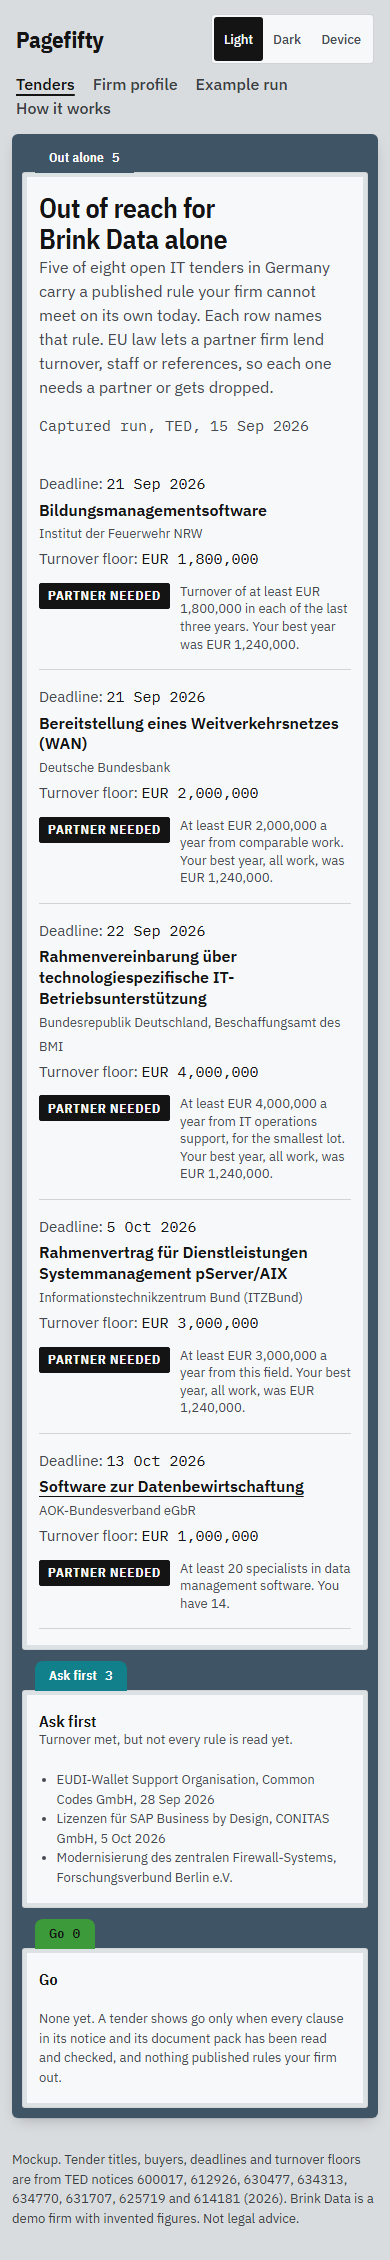
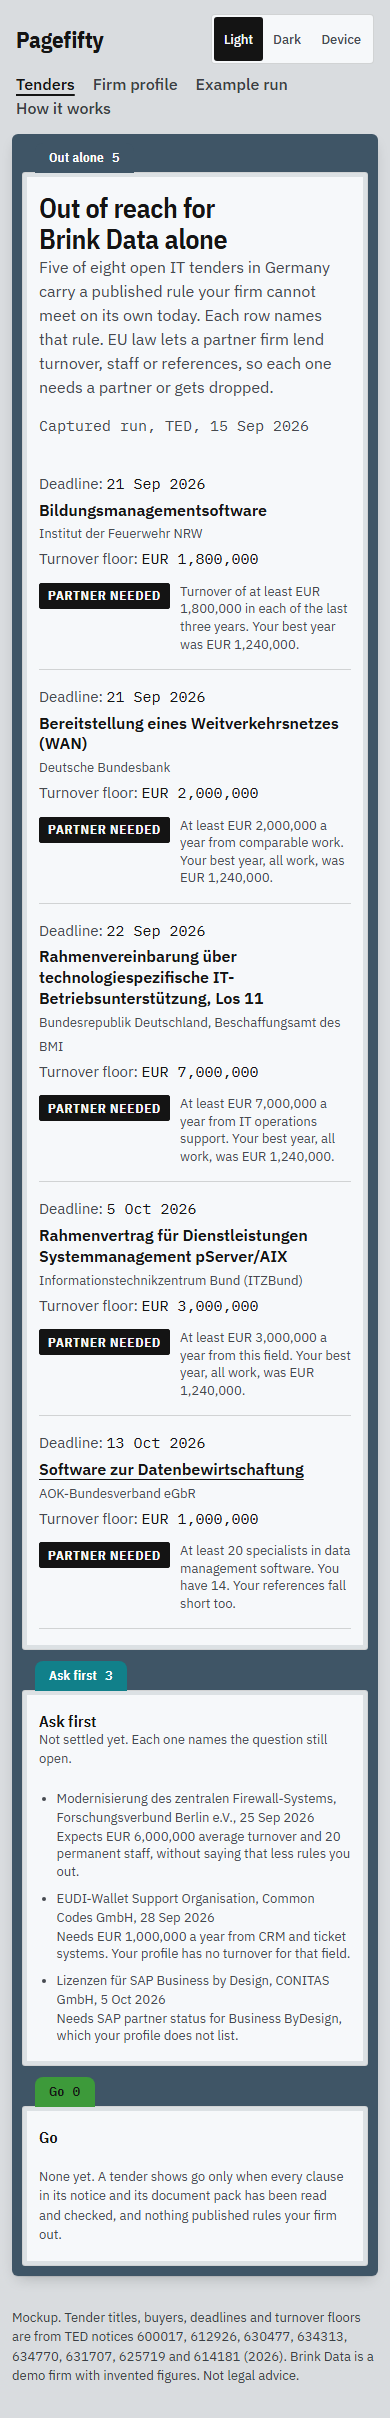
fix(design): match mockup figures and dates to the captured notices
Walking each page against the 2026-09-15 capture found figures the
notices do not support.

- Tenders: 600017 is Los 11 of the framework, whose floor is EUR
  7,000,000; EUR 4,000,000 belongs to Los 12 in another notice. The
  ask-first list claimed turnover met, yet 614181 expects EUR 6,000,000
  and the other two demand field turnover the profile does not hold.
  Each item now names its open question, 614181 shows its 25 Sep request
  deadline and sorts first, and the AOK row names both shortfalls the
  verdict page counts.
- Home: 28 of 58 took each notice's lowest floor, so floors a lot
  demands together were dropped, a three-year total read as yearly, two
  floors written "750.000. Euro" were missed and 13 of 363 notices had
  already closed. The recount gives 31 of 57 open notices; PRODUCT.md
  and ART-DIRECTION.md state the rule.
- Profile: the average no longer shows a figure while 2025 is invalid.
- States: days left counted as of the 15 Sep capture date, like the
  verdict page. Verdict: the Notice tab counts the three clauses on it.
- theme.js follows a pick made in another tab, or before Back restored
  the page, while a page's own click and ?theme= still hold.
- The open questions under a listed tender no longer shrink below the
  list text. Mockups recaptured.

ritual step p3

Changed region(s): [[0.0308, 0.0, 0.9538, 0.9912]]

diff --git a/design/tenders.html b/design/tenders.html
@@ -111,17 +111,18 @@
 							<td class="mono" data-label="Deadline">22 Sep 2026</td>
 							<td>
 								<span class="t" lang="de"
-									>Rahmenvereinbarung über technologiespezifische IT-Betriebsunterstützung</span
+									>Rahmenvereinbarung über technologiespezifische IT-Betriebsunterstützung, Los
+									11</span
 								>
 								<span class="b" lang="de">Bundesrepublik Deutschland, Beschaffungsamt des BMI</span>
 							</td>
-							<td class="num mono" data-label="Turnover floor">EUR 4,000,000</td>
+							<td class="num mono" data-label="Turnover floor">EUR 7,000,000</td>
 							<td>
 								<div class="vcell">
 									<span class="vtag out">Partner needed</span
 									><small
-										>At least EUR 4,000,000 a year from IT operations support, for the smallest lot.
-										Your best year, all work, was EUR 1,240,000.</small
+										>At least EUR 7,000,000 a year from IT operations support. Your best year, all
+										work, was EUR 1,240,000.</small
 									>
 								</div>
 							</td>
@@ -157,7 +158,10 @@
 							<td>
 								<div class="vcell">
 									<span class="vtag out">Partner needed</span
-									><small>At least 20 specialists in data management software. You have 14.</small>
+									><small
+										>At least 20 specialists in data management software. You have 14. Your
+										references fall short too.</small
+									>
 								</div>
 							</td>
 						</tr>
@@ -170,13 +174,30 @@
 				<div class="grid">
 					<div class="margin-col">
 						<h2 class="margin-head" id="ask-title">Ask first</h2>
-						<p>Turnover met, but not every rule is read yet.</p>
+						<p>Not settled yet. Each one names the question still open.</p>
 					</div>
 					<ul class="span-4 note" style="margin: 0; padding-left: 1.1rem">
-						<li lang="de">EUDI-Wallet Support Organisation, Common Codes GmbH, 28 Sep 2026</li>
-						<li lang="de">Lizenzen für SAP Business by Design, CONITAS GmbH, 5 Oct 2026</li>
-						<li lang="de">
-							Modernisierung des zentralen Firewall-Systems, Forschungsverbund Berlin e.V.
+						<li>
+							<span lang="de"
+								>Modernisierung des zentralen Firewall-Systems, Forschungsverbund Berlin e.V.</span
+							>, 25 Sep 2026<small
+								>Expects EUR 6,000,000 average turnover and 20 permanent staff, without saying that
+								less rules you out.</small
+							>
+						</li>
+						<li>
+							<span lang="de">EUDI-Wallet Support Organisation, Common Codes GmbH</span>, 28 Sep
+							2026<small
+								>Needs EUR 1,000,000 a year from CRM and ticket systems. Your profile has no
+								turnover for that field.</small
+							>
+						</li>
+						<li>
+							<span lang="de">Lizenzen für SAP Business by Design, CONITAS GmbH</span>, 5 Oct
+							2026<small
+								>Needs SAP partner status for Business ByDesign, which your profile does not
+								list.</small
+							>
 						</li>
 					</ul>
 				</div>

diff --git a/design/assets/theme.js b/design/assets/theme.js
@@ -9,12 +9,16 @@
 		return CHOICES.includes(value) ? value : null;
 	}
 
-	function read() {
+	function stored() {
 		try {
-			return known(localStorage.getItem(KEY)) || 'device';
+			return localStorage.getItem(KEY);
 		} catch {
-			return 'device';
+			return null;
 		}
+	}
+
+	function read() {
+		return known(stored()) || 'device';
 	}
 
 	function apply(choice) {
@@ -29,6 +33,20 @@
 	// A click replaces it, so a later OS change never undoes what the user just picked.
 	let current = known(new URLSearchParams(location.search).get('theme')) || read();
 
+	// The stored value this page view last saw. A different one later means a pick was made in
+	// another tab, or on another page before Back restored this one from the back-forward cache.
+	let seen = stored();
+
+	function follow() {
+		const now = stored();
+		if (now === seen) return;
+		seen = now;
+		const choice = known(now);
+		if (!choice) return;
+		current = choice;
+		apply(current);
+	}
+
 	document.addEventListener('click', (event) => {
 		const button = event.target.closest('[data-theme-choice]');
 		if (!button) return;
@@ -38,11 +56,20 @@
 		} catch {
 			// Storage can be blocked; the choice still applies for this page view.
 		}
+		seen = stored();
 		apply(current);
 	});
 
 	media.addEventListener('change', () => {
 		if (current === 'device') apply('device');
+	});
+
+	window.addEventListener('storage', (event) => {
+		if (event.key === KEY) follow();
+	});
+
+	window.addEventListener('pageshow', (event) => {
+		if (event.persisted) follow();
 	});
 
 	document.addEventListener('DOMContentLoaded', () => apply(current));

diff --git a/design/home.html b/design/home.html
@@ -56,8 +56,8 @@
 					reading.
 				</p>
 				<p class="finding">
-					Of <b>58</b> open IT tenders from Germany and Belgium that state a turnover floor,
-					<b>28</b> shut out a firm with <b>EUR 1M</b> yearly turnover on its own.
+					Of <b>57</b> open IT tenders from Germany and Belgium that state a turnover floor,
+					<b>31</b> shut out a firm with <b>EUR 1M</b> yearly turnover on its own.
 					<span class="mono">Measured on TED, 15 Sep 2026.</span>
 				</p>
 				<div class="actions cover-actions">
@@ -132,8 +132,8 @@
 		</main>
 
 		<p class="demo-note">
-			Mockup. The measured figure is from 363 open IT notices on TED (15 Sep 2026). Not legal
-			advice.
+			Mockup. The measured figure is from the 350 IT notices on TED still open on 15 Sep 2026. Not
+			legal advice.
 		</p>
 	</body>
 </html>

diff --git a/design/verdict.html b/design/verdict.html
@@ -185,7 +185,7 @@
 			</article>
 
 			<section class="leaf ply-2" id="clauses" aria-labelledby="clauses-title">
-				<a class="tab hue-grass" href="#clauses">Notice <span class="count">4</span></a>
+				<a class="tab hue-grass" href="#clauses">Notice <span class="count">3</span></a>
 				<h2 class="leaf-head" id="clauses-title">Every other clause, hardest first</h2>
 				<div class="clause-cols" aria-hidden="true">
 					<span></span><span class="label">The buyer's words</span

diff --git a/design/profile.html b/design/profile.html
@@ -143,9 +143,11 @@
 							>
 						</div>
 						<div class="field">
-							<label for="t-avg">Average</label><input id="t-avg" value="1180000" readonly /><span
+							<label for="t-avg">Average</label
+							><input id="t-avg" value="" readonly aria-describedby="t-avg-hint" /><span
 								class="hint"
-								>Worked out from the three years</span
+								id="t-avg-hint"
+								>Worked out once all three years are numbers</span
 							>
 						</div>
 					</div>

diff --git a/design/assets/pagefifty.css b/design/assets/pagefifty.css
@@ -831,6 +831,17 @@ h2.verdict {
 	max-width: 70ch;
 }
 
+/* A listed tender's open question sits under its title at the same size, never smaller. */
+ul.note li + li {
+	margin-top: 0.5rem;
+}
+
+ul.note small {
+	display: block;
+	font-size: inherit;
+	line-height: 1.35;
+}
+
 .demo-note {
 	margin: 0 calc(var(--gutter) + var(--rail)) 2rem var(--gutter);
 	font-size: var(--step--1);

diff --git a/design/states.html b/design/states.html
@@ -76,7 +76,7 @@
 								<div class="span-2">
 									<span class="label">Deadline for questions</span>
 									<p class="reading">
-										<span class="mono">2 Oct 2026, 12:00 CEST</span>, 16 days left.
+										<span class="mono">2 Oct 2026, 12:00 CEST</span>, 17 days left as of 15 Sep.
 									</p>
 								</div>
 								<pre class="draft" lang="de">

diff --git a/PRODUCT.md b/PRODUCT.md
@@ -49,7 +49,7 @@ It never gives a verdict the source does not support. Tender alert tools find te
 
 ## Evidence on Hand
 
-- Measured on live TED data, 2026-09-15: 363 open IT notices from NL, BE and DE published since 2026-09-01; 97 publish an estimated value; 58 state a turnover floor and 28 of those shut out a firm with 1M turnover.
+- Measured on live TED data, 2026-09-15: 363 IT notices from NL, BE and DE published since 2026-09-01 and listed by TED as active, 350 of them still open by their own deadlines; 97 of the 363 publish an estimated value; 57 of the open ones state a turnover floor, and 31 of those set a floor a firm with EUR 1M yearly turnover cannot meet on its own (every floor in a lot counts, a three-year total counts as a third a year).
 - German notices carry typed selection criteria far more often than Dutch or Belgian ones (211 of 240 DE, 2 of 72 NL, 10 of 43 BE).
 - Real DTVP document packs (ZIP) and a TenderNed PDF fetched with no account.
 - No customers, testimonials, press or partner logos exist. None may be invented.

diff --git a/design/ART-DIRECTION.md b/design/ART-DIRECTION.md
@@ -168,5 +168,5 @@ Each image is a full-page capture in headless Chromium at a 1440 by 900 or 390 b
 ## Content truth
 
 - Tender facts and German quotes come from TED notices 630477-2026, 600017, 612926, 634313, 634770, 631707, 625719 and 614181 (2026).
-- The home page figure (58 notices with a turnover floor, 28 ruling out a firm at EUR 1M) was measured on 363 open IT notices on 2026-09-15.
+- The home page figure (57 open notices with a turnover floor, 31 of them out of reach for a firm at EUR 1M on its own) comes from the 2026-09-15 capture: 363 IT notices TED listed as active, 350 still open by their deadlines. A firm must meet every floor in a lot, a three-year total counts as a third a year, and one floor the buyer states only as expected (614181-2026) is left out.
 - Brink Data is a demo firm with invented figures. The states page's Article 58(3) figures are illustrative. Both are labelled on the pages.
